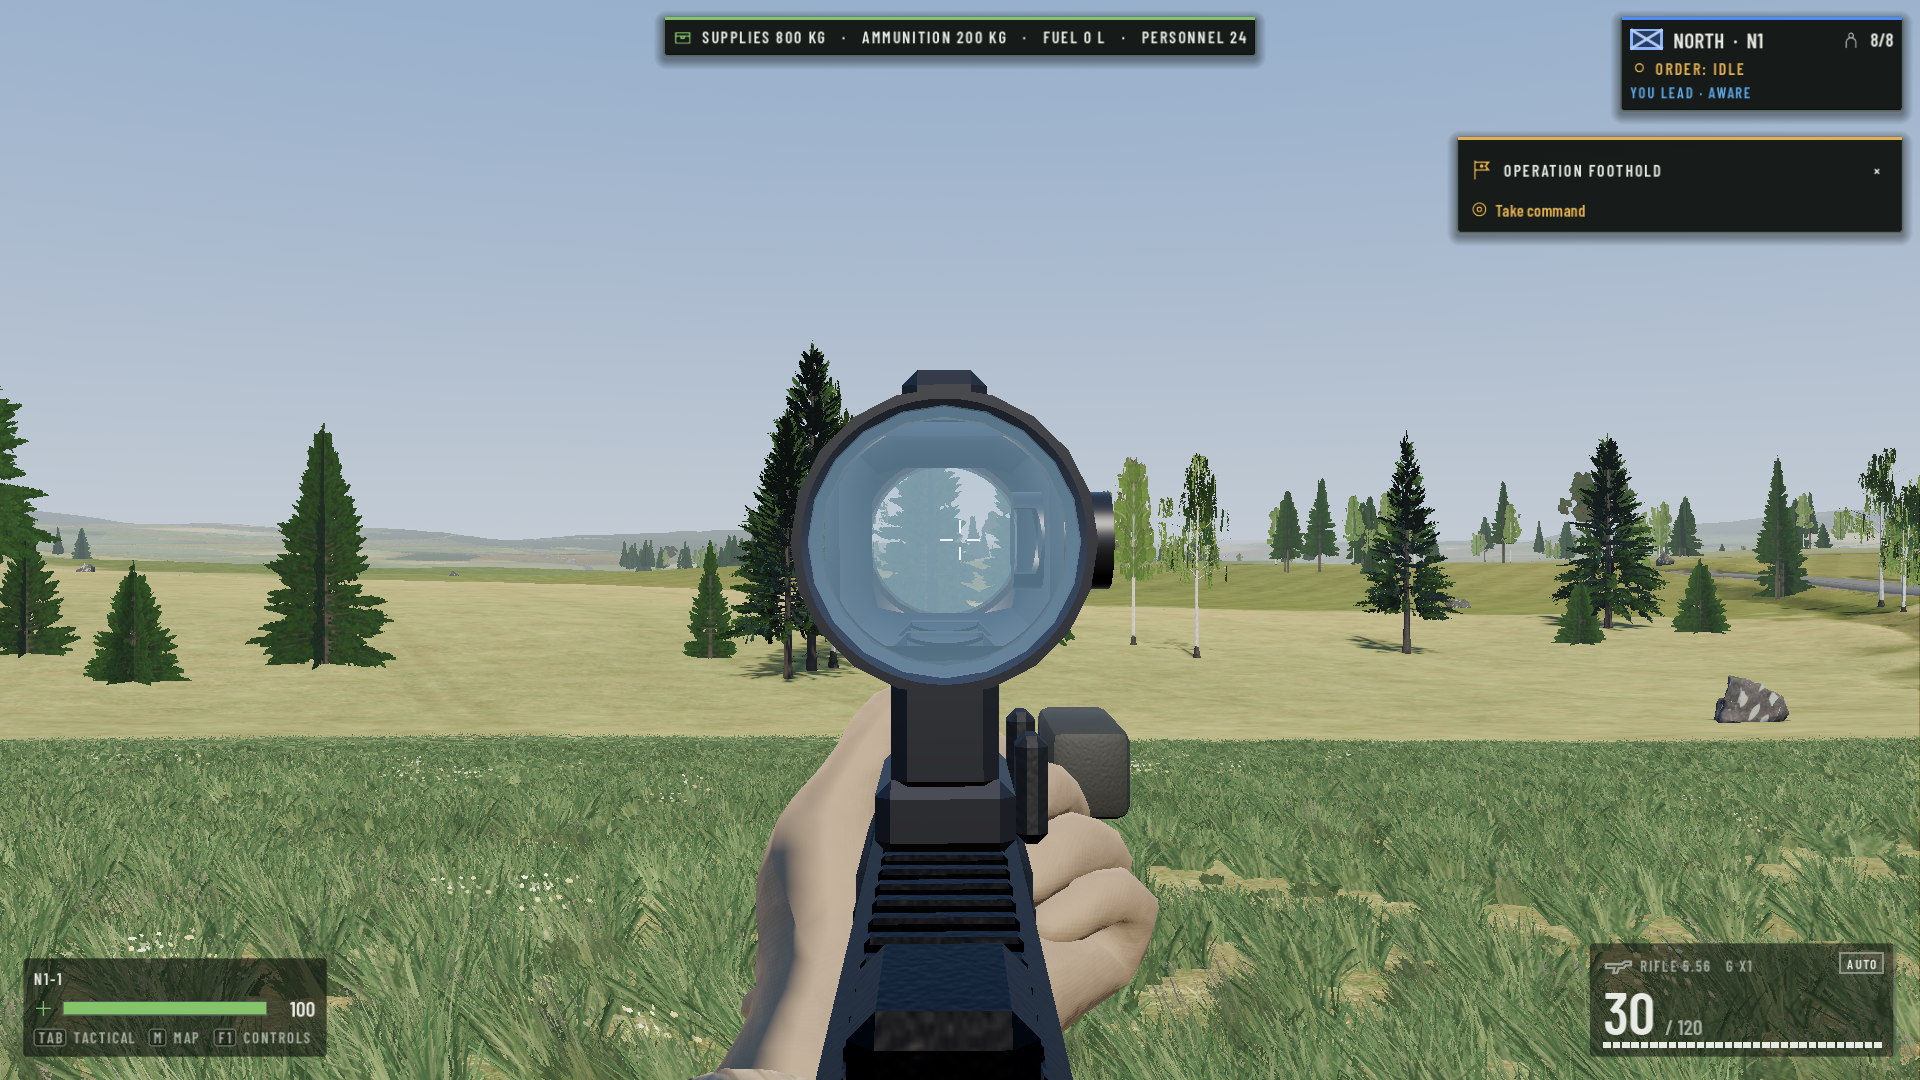
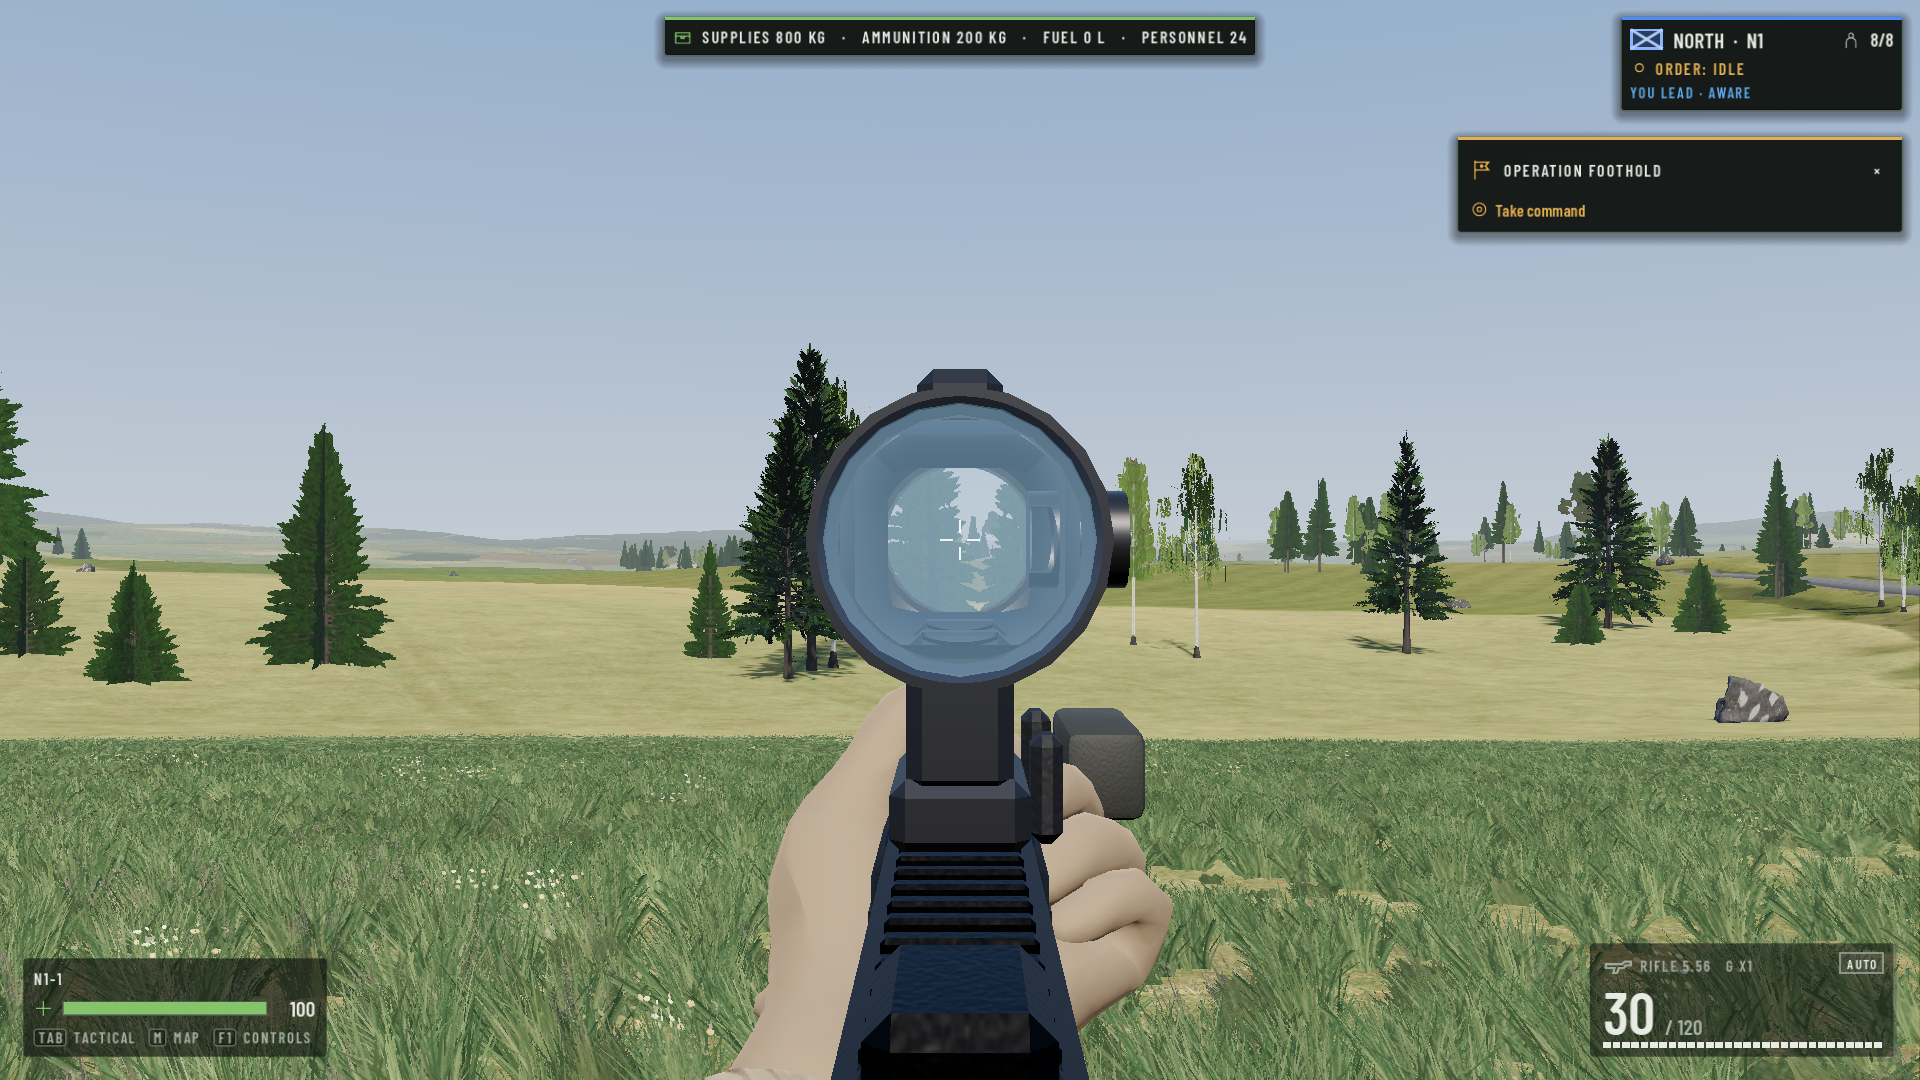
GAMEPLAY-02 (controls): steady first-person weapon, no speckled body shadow on the arms
- Viewmodel places the arms on skeleton_updated (the frame's final pose): sight range 21 mm -> under 2 mm
- Possessed body's upper body on a layer the sun's shadow_caster_mask leaves out (shadow acne on the arms); legs keep their shadow
- First-person sleeves use a softer ripstop normal map
- --controls-test f_steady

Changed region(s): [[0.0, 0.3361, 1.0, 1.0], [0.9688, 0.4278, 1.0, 0.5194]]

diff --git a/docs/GAMEPLAY-02-CONTROLS_REPORT.md b/docs/GAMEPLAY-02-CONTROLS_REPORT.md
@@ -11,6 +11,8 @@ Named `-CONTROLS` because `docs/GAMEPLAY-02_REPORT.md` is the earlier GAMEPLAY-0
 | Cursor freed / captured at random after mode changes | Every `SoldierBody` set the global mouse mode from its `player_controlled` setter, so a body streamed in near the player freed the first-person capture | Same policy; mode changes, menus, window focus and a click in first person all go through it |
 | Esc "sometimes" did nothing | `PauseMenu` (process mode ALWAYS) stays in the tree when hidden and hidden CanvasLayers still get `_unhandled_input`: after the first use every Esc was eaten as "resume". Also the RTS controller used Esc to clear the selection first | The menu ignores input while hidden; Esc no longer clears the selection (it still cancels an armed order / a right-drag; a click on open ground deselects) |
 | No weapon in first person | COMBAT-POLISH-01's prone tilt (`InfantryCharacter._apply_tilt`) reset the character transform to identity every frame - also on the first-person arms, whose transform the `Viewmodel` sets: the rifle sat 1.44 m above the camera | `InfantryCharacter.ground_tilt`, false for the viewmodel arms |
+| First-person weapon shook (play test, follow-up) | The Viewmodel placed the arms in `_process` from the previous frame's animated weapon pose: one frame behind the idle, the sight moved 2.5 mm a frame (up to 13 mm, also aiming) | Placed on `skeleton_updated` (after this frame's animation and grip IK): range 21 mm -> under 2 mm, still, aiming and walking (`f_steady`) |
+| Speckled, "see-through" shading on arms and weapon (follow-up) | Shadow acne: the possessed body (shadows-only) lies where the first-person arms are. With the body hidden the speckle vanished | Upper-body pieces of the possessed body go on render layer 20, which the sun's `shadow_caster_mask` leaves out (`UnitVisuals.FP_NO_SHADOW_LAYER`); legs and boots keep their shadow. The sleeves' ripstop normal map at 0.3x in first person only (its grid read as dots at 30 cm) |
 | Camera 8x too fast at 8x | `RTSCamera` used the scaled frame delta | Real-time delta (also works while paused) |
 
 ## Implemented
@@ -53,6 +55,7 @@ into the viewport), one run, **PASS**, shots in `docs/gameplay02_controls/`:
 |---|---|
 | m_mouse | cursor visible in RTS; first person wants capture, still after a body spawns; menu shows it; resume recaptures; back to RTS visible |
 | e_escape | 3x open/close with a squad selected (selection kept) and 3x in first person |
+| f_steady | sight point frame to frame: median 0.5 mm, max 1.8 mm, range < 2 mm (before 2.5 / 13 / 21 mm); `f_steady_light.png`, `f_steady_against_sun.png` |
 | f_weapon | weapon at camera (0.06, -0.29, -0.38) - in view (before: (0.14, +1.44, -0.45)); `f_weapon_hip.png` |
 | u_scale | 125 %: canvas 922x518, 175 %: 658x370, command panel on screen in both; settings panel opens |
 | s_speed | paused: sim clock +0.00 s, camera moved 52 m; 1-4 = 1/2/4/8 x; possession -> 1 x, unpaused, key 4 ignored |
@@ -75,6 +78,6 @@ All scripts compile (`tools/check_scripts.gd`). No regression suites run (brief:
 `scripts/core/game_controller.gd`, `scripts/player/fps_controller.gd`, `scripts/game/core_demo.gd`, `scripts/ui/pause_menu.gd`,
 `scripts/ui/main_menu.gd`, `scripts/ui/settings_panel.gd` (new), `scripts/ui/ui_settings.gd` (new), `scripts/ui/game_hud.gd`,
 `scripts/ui/tactical_panel.gd`, `scripts/rts/rts_controller.gd`, `scripts/rts/rts_camera.gd`, `scripts/core/time_compression.gd`,
-`scripts/characters/infantry_character.gd`, `scripts/combat/viewmodel.gd`, `scripts/core/squad_positions.gd`,
+`scripts/characters/infantry_character.gd`, `scripts/combat/viewmodel.gd`, `scripts/units/unit_visuals.gd`, `scripts/core/squad_positions.gd`,
 `scripts/core/squad_control.gd`, `scripts/core/squad_state.gd`, `scripts/core/squad_tactics.gd`,
 `scripts/construction/build_costs.gd`, `scripts/debug/controls_selftest.gd` (new), `README.md`, this report.
